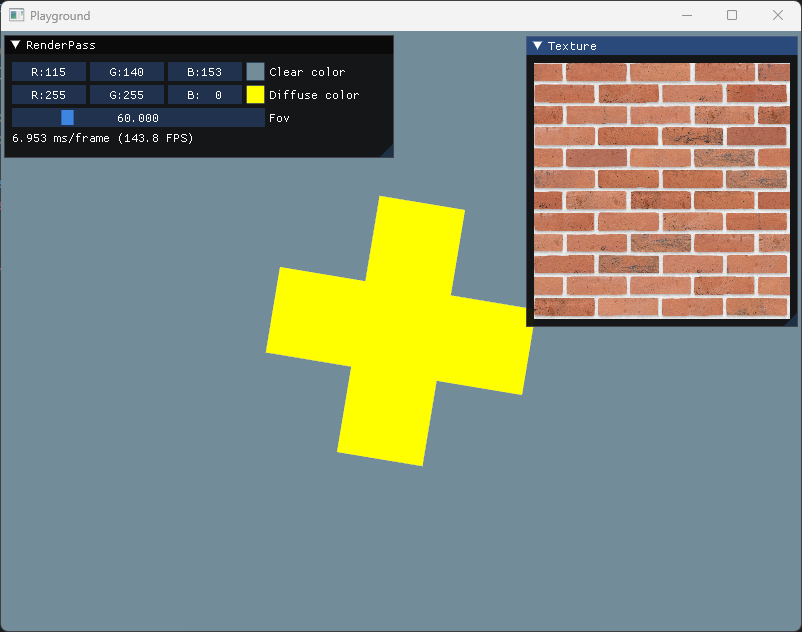
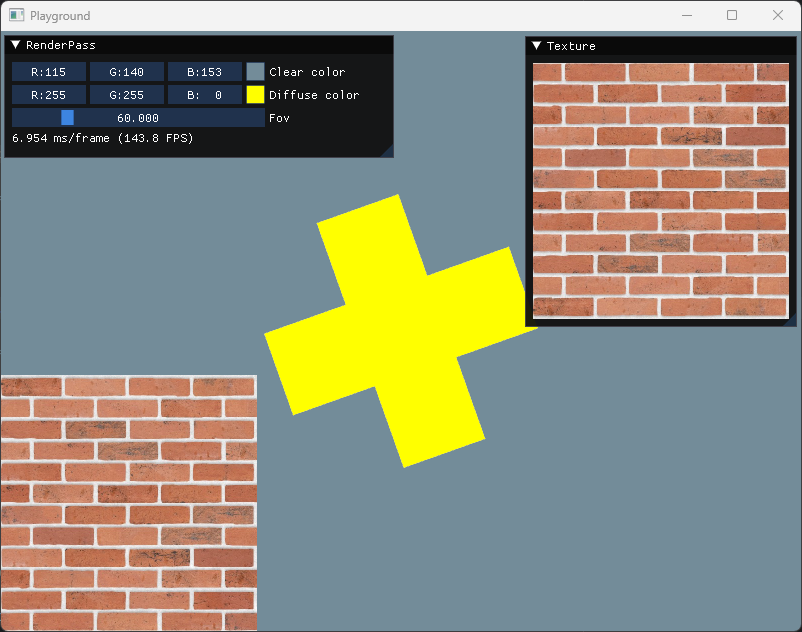
added a 2d square

diff --git a/Code/main.cpp b/Code/main.cpp
@@ -8,6 +8,7 @@
 #include "file.hpp"
 #include "material.hpp"
 #include "texture.hpp"
+#include "vec2.hpp"
 
 #include <backends/imgui_impl_glfw.h>
 #include <backends/imgui_impl_opengl3.h>
@@ -17,9 +18,16 @@
 
 #include <stb_image.h>
 
-struct vertex
+struct diffuse_vertex
 {
     vec3 position;
+    vec2 uv;
+};
+
+struct texture_vertex
+{
+    vec3 position;
+    vec2 uv;
 };
 
 #define USE_GLFW
@@ -84,30 +92,54 @@ int main()
     auto diffuse_vertex_source = File::read("../diffuse_vert.glsl");
     auto diffuse_fragment_source = File::read("../diffuse_frag.glsl");
 
-    Shader vertex_shader { "diffuse_vert.glsl", GL_VERTEX_SHADER };
-    vertex_shader.create();
-    vertex_shader.source(diffuse_vertex_source.data());
-    vertex_shader.compile();
+    Shader diffuse_vertex_shader {"diffuse_vert.glsl", GL_VERTEX_SHADER };
+    diffuse_vertex_shader.create();
+    diffuse_vertex_shader.source(diffuse_vertex_source.data());
+    diffuse_vertex_shader.compile();
 
-    Shader fragment_shader { "diffuse_frag.glsl", GL_FRAGMENT_SHADER };
-    fragment_shader.create();
-    fragment_shader.source(diffuse_fragment_source.data());
-    fragment_shader.compile();
+    Shader diffuse_fragment_shader {"diffuse_frag.glsl", GL_FRAGMENT_SHADER };
+    diffuse_fragment_shader.create();
+    diffuse_fragment_shader.source(diffuse_fragment_source.data());
+    diffuse_fragment_shader.compile();
 
-    Program program;
-    program.create();
-    program.attach(&vertex_shader);
-    program.attach(&fragment_shader);
-    program.link();
+    Program diffuse_program;
+    diffuse_program.create();
+    diffuse_program.attach(&diffuse_vertex_shader);
+    diffuse_program.attach(&diffuse_fragment_shader);
+    diffuse_program.link();
 
-    program.detach(&vertex_shader);
-    program.detach(&fragment_shader);
+    diffuse_program.detach(&diffuse_vertex_shader);
+    diffuse_program.detach(&diffuse_fragment_shader);
+
+    // ==================================================================================
+
+    auto texture_vertex_source = File::read("../texture_vert.glsl");
+    auto texture_fragment_source = File::read("../texture_frag.glsl");
+
+    Shader texture_vertex_shader { "texture_vert.gsl", GL_VERTEX_SHADER };
+    texture_vertex_shader.create();
+    texture_vertex_shader.source(texture_vertex_source.data());
+    texture_vertex_shader.compile();
+
+    Shader texture_fragment_shader { "texture_frag.glsl", GL_FRAGMENT_SHADER };
+    texture_fragment_shader.create();
+    texture_fragment_shader.source(texture_fragment_source.data());
+    texture_fragment_shader.compile();
+
+    Program texture_program;
+    texture_program.create();
+    texture_program.attach(&texture_vertex_shader);
+    texture_program.attach(&texture_fragment_shader);
+    texture_program.link();
+
+    texture_program.detach(&texture_vertex_shader);
+    texture_program.detach(&texture_fragment_shader);
 
     // ==================================================================================
 
     Assimp::Importer importer;
 
-    std::vector<vertex> x_vertices;
+    std::vector<diffuse_vertex> x_vertices;
     std::vector<uint32_t> x_indices;
 
     const aiScene* scene = importer.ReadFile("../x.obj", 0);
@@ -141,11 +173,10 @@ int main()
 
     // ==================================================================================
 
-    glPixelStorei(GL_UNPACK_ALIGNMENT, 1); // TODO test without this on a normal square from our own shader
-
     int32_t w, h, c;
 
-    auto   data = stbi_load("../texture.jpg", &w, &h, &c, 0);
+    stbi_set_flip_vertically_on_load(true);
+    auto   data = stbi_load("../texture.jpeg", &w, &h, &c, 0);
     assert(data != nullptr);
 
     Texture test_texture { GL_TEXTURE_2D };
@@ -157,24 +188,60 @@ int main()
 
     // ==================================================================================
 
-    std::vector<vertex_attribute> vertex_attributes =
+    std::vector<vertex_attribute> diffuse_vertex_attributes =
     {
-        { 0, 3, (int32_t)offsetof(vertex, position) }
+        { 0, 3, (int32_t)offsetof(diffuse_vertex, position) }
     };
 
-    VertexArray vertex_array;
-    vertex_array.create();
-    vertex_array.bind();
+    VertexArray x_vertex_array;
+    x_vertex_array.create();
+    x_vertex_array.bind();
 
-    Buffer vertex_buffer { GL_ARRAY_BUFFER, GL_STATIC_DRAW };
-    vertex_buffer.create();
-    vertex_buffer.data(BufferData::make_data(x_vertices));
+    Buffer x_vertex_buffer {GL_ARRAY_BUFFER, GL_STATIC_DRAW };
+    x_vertex_buffer.create();
+    x_vertex_buffer.data(BufferData::make_data(x_vertices));
 
-    Buffer indices_buffer { GL_ELEMENT_ARRAY_BUFFER, GL_STATIC_DRAW };
-    indices_buffer.create();
-    indices_buffer.data(BufferData::make_data(x_indices));
+    Buffer x_indices_buffer {GL_ELEMENT_ARRAY_BUFFER, GL_STATIC_DRAW };
+    x_indices_buffer.create();
+    x_indices_buffer.data(BufferData::make_data(x_indices));
 
-    vertex_array.init_attributes_of_type<vertex>(vertex_attributes);
+    x_vertex_array.init_attributes_of_type<diffuse_vertex>(diffuse_vertex_attributes);
+
+    // ==================================================================================
+
+    std::vector<texture_vertex> square_vertices =
+    {
+        {{  128.0f,  128.0f, 0.0f }, { 1.0f, 1.0f } },
+        {{  128.0f, -128.0f, 0.0f }, { 1.0f, 0.0f } },
+        {{ -128.0f, -128.0f, 0.0f }, { 0.0f, 0.0f } },
+        {{ -128.0f,  128.0f, 0.0f }, { 0.0f, 1.0f } },
+    };
+
+    std::vector<uint32_t> square_indices =
+    {
+        0, 1, 3,
+        1, 2, 3
+    };
+
+    std::vector<vertex_attribute> texture_vertex_attributes =
+    {
+        { 0, 3, (int32_t)offsetof(texture_vertex, position) },
+        { 1, 2, (int32_t)offsetof(texture_vertex, uv) }
+    };
+
+    VertexArray square_vertex_array;
+    square_vertex_array.create();
+    square_vertex_array.bind();
+
+    Buffer square_vertex_buffer { GL_ARRAY_BUFFER, GL_STATIC_DRAW };
+    square_vertex_buffer.create();
+    square_vertex_buffer.data(BufferData::make_data(square_vertices));
+
+    Buffer square_indices_buffer { GL_ELEMENT_ARRAY_BUFFER, GL_STATIC_DRAW };
+    square_indices_buffer.create();
+    square_indices_buffer.data(BufferData::make_data(square_indices));
+
+    square_vertex_array.init_attributes_of_type<texture_vertex>(texture_vertex_attributes);
 
     // ==================================================================================
 
@@ -200,16 +267,28 @@ int main()
 
     // ==================================================================================
 
-    ImVec4 clear_color = ImVec4(0.45f, 0.55f, 0.60f, 1.00f);
+    ImVec4 clear_color = ImVec4(0.45f, 0.55f, 0.60f, 1.0f);
 
     std::vector<glm::mat4> matrices { 3 };
 
-    Camera camera;
+    // ==================================================================================
+
+    Camera perspective_camera;
+    Camera ortho_camera;
+
+    Transform perspective_camera_transform;
+    Transform ortho_camera_transform;
+
+    perspective_camera_transform.translate({0.0f, 0.0f, -5.0f });
+
+    // ==================================================================================
 
     Transform x_transform;
-    Transform camera_transform;
+    Transform square_transform;
 
-    camera_transform.translate({ 0.0f, 0.0f, -5.0f });
+    square_transform.translate({ 128.0f, 128.0f, 0.0f });
+
+    // ==================================================================================
 
     const Time time;
     float fov = 60.0f;
@@ -221,8 +300,12 @@ int main()
 
         const float ratio = (float) width / (float) height;
 
+        perspective_camera.perspective(fov, ratio);
+        ortho_camera.ortho(0.0f, (float)width, 0.0f, (float)height);
+
         render_pass.viewport(0, 0, width, height);
-        camera.perspective(fov, ratio);
+
+        // ==================================================================================
 
         ImGui_ImplOpenGL3_NewFrame();
         ImGui_ImplGlfw_NewFrame(width, height, time.total_time());
@@ -238,30 +321,49 @@ int main()
         ImGui::End();
 
         ImGui::Begin("Texture");
-        ImGui::Image((void*)(intptr_t)test_texture.handle(), { 256, 256});
+        ImGui::Image((void*)(intptr_t)test_texture.handle(), { 256, 256}); // TODO fix flipped image
         ImGui::End();
 
         ImGui::Render();
 
+        // ==================================================================================
+
         render_pass.clear_color(clear_color.x, clear_color.y, clear_color.z);
         render_pass.clear_buffers();
+
+        // ==================================================================================
 
         x_transform.translate({ 0.0f, 0.0f, 0.0f })
                    .rotate({ 0.0f, 0.0f, 1.0f }, time.total_time())
                    .scale({ 0.5f, 0.5f, 0.5f });
 
         matrices[0] = x_transform.matrix();
-        matrices[1] = camera_transform.matrix();
-        matrices[2] = camera.projection();
+        matrices[1] = perspective_camera_transform.matrix();
+        matrices[2] = perspective_camera.projection();
 
         matrices_buffer.data(BufferData::make_data(matrices));
         material_buffer.data(BufferData::make_data(&x_material));
 
-        program.bind();
+        diffuse_program.bind();
 
-        vertex_array.bind();
-        //glDrawArrays(GL_TRIANGLES, 0, 3);
-        glDrawElements(GL_TRIANGLES, (int32_t) x_indices.size(), GL_UNSIGNED_INT, 0);
+        x_vertex_array.bind();
+        glDrawElements(GL_TRIANGLES, (int32_t)x_indices.size(), GL_UNSIGNED_INT, 0);
+
+        // ==================================================================================
+
+        matrices[0] = square_transform.matrix();
+        matrices[1] = ortho_camera_transform.matrix();
+        matrices[2] = ortho_camera.projection();
+
+        matrices_buffer.data(BufferData::make_data(matrices));
+
+        texture_program.bind();
+        test_texture.bind();
+
+        square_vertex_array.bind();
+        glDrawElements(GL_TRIANGLES, (int32_t)square_indices.size(), GL_UNSIGNED_INT, 0);
+
+        // ==================================================================================
 
         ImGui_ImplOpenGL3_RenderDrawData(ImGui::GetDrawData());
 
